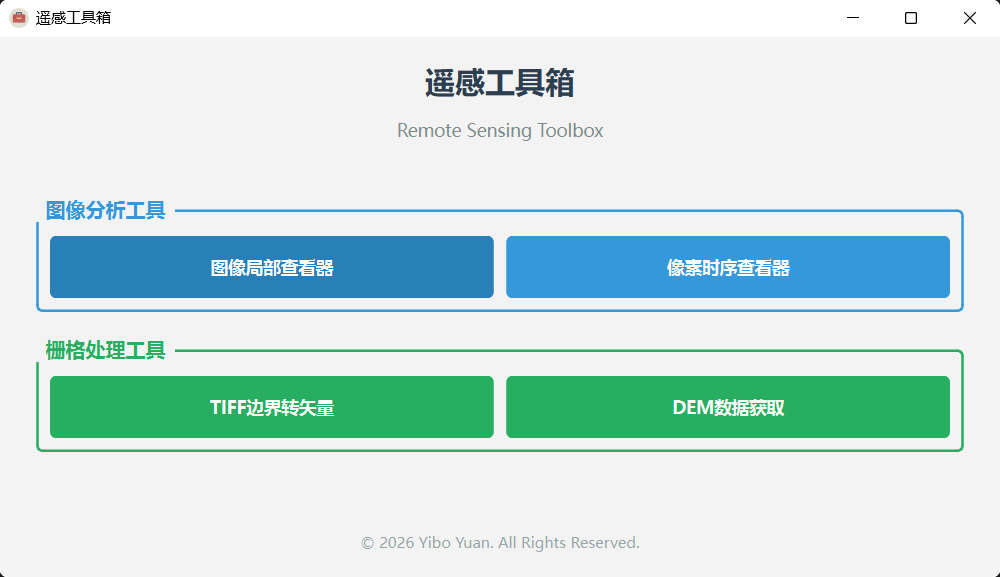
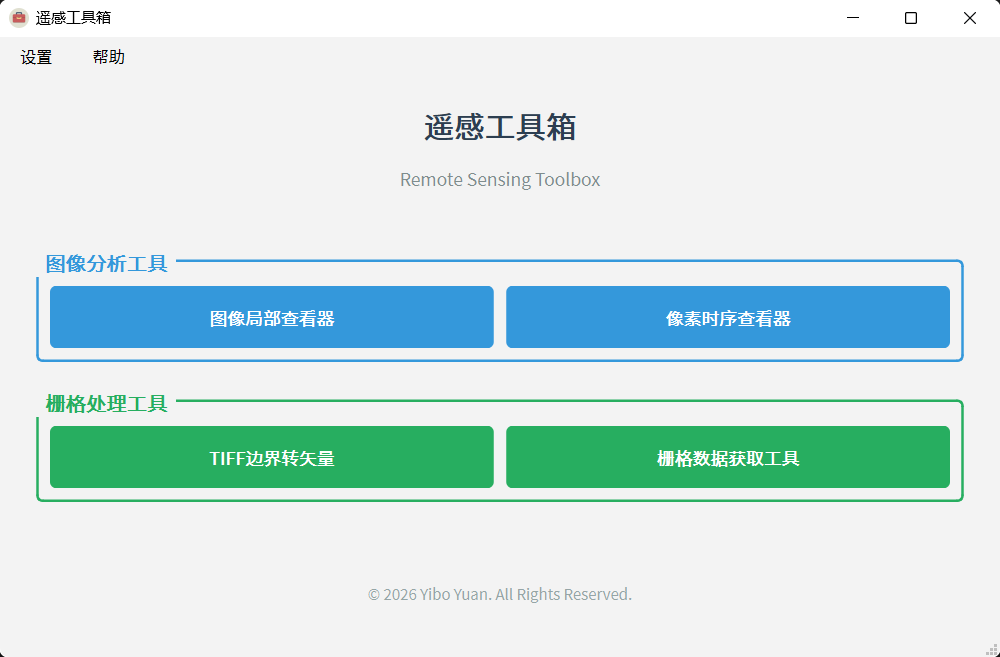
📃 docs: 更新README及示例图片

diff --git a/README.md b/README.md
@@ -73,16 +73,29 @@
   <img src="imgs/local.png" alt="图像局部查看器">
 </p>
 
-### 4. 栅格数据获取工具（已完成）
+### 4. 栅格数据获取工具
 
 可根据研究区范围从本地或在线数据源获取栅格数据
+
+**特点：**
+
+1. 在范围导入时支持
 
 **使用方法：**
 
 1. 点击主界面"栅格数据获取工具"按钮
+2. 选择区域选择方式：
+
+- **地图绘制**： 在地图上手动绘制区域
+- **手动输入**： 手动输入经纬度坐标
+- **行政区划**： 选择中国的省、市、县
+- **矢量文件**： 支持导入多种格式的矢量文件
+- **TIF文件**： 根据TIF文件的角点确定边界，导出时支持将栅格数据裁剪重采样至与TIF文件同样的地理范围和分辨率
+- **GAMMA par文件**： 根据GAMMA的SLC或者MLI的par文件确定矢量范围，并自动往外扩大0.1度范围，方便为地理编码准备DEM数据
+
 2. 选择数据获取方式：
-   - **在线获取**：选择在线数据源，配置 OpenTopography API Key，绘制或输入研究区范围，选择数据集后下载
-   - **本地获取**：选择本地栅格数据源，绘制或输入研究区范围，自动查找、拼接、裁剪瓦片
+   - **本地获取**：支持自定义配置本地栅格数据源，自动查找、拼接、裁剪本地栅格数据
+   - **在线获取**：选择在线数据源，支持OpenTopography，未来计划支持更多的在线数据
 3. 设置输出路径和文件名
 4. 点击"开始处理"获取栅格数据
 
@@ -220,8 +233,6 @@ uv sync
 python main.py
 ```
 
-
-
 ## 项目打包
 
 本项目支持 Windows 和 Linux 平台的打包，分别生成安装程序和 AppImage。
@@ -258,6 +269,26 @@ sudo apt install -y \
 # 确保已安装 Python 虚拟环境和所有项目依赖
 ```
 
+## 自动发布
+
+项目已配置基于 GitHub Actions 的自动发布流程：
+
+1. Windows 在 GitHub Actions 云端直接调用 `build_win.ps1` 构建安装包。
+2. Linux 在 GitHub Actions 云端通过 `docker/linux-release.Dockerfile` 构建固定环境，再调用 `build_linux.sh` 生成 AppImage。
+3. 推送形如 `v1.4.1` 的 Git tag 后，会自动创建 GitHub Release 并上传 Windows/Linux 两个平台产物。
+
+本地一键发版命令：
+
+```powershell
+.\scripts\publish_release.ps1
+```
+
+执行前请确保：
+
+1. `src/version.py` 和 `version.json` 中的版本号一致。
+2. 当前 Git 工作区是干净状态。
+3. `version.json` 里的 `name` 和 `changelog` 已经写好本次发布说明。
+
 ### Windows 打包
 
 使用 `build_win.ps1` 脚本进行打包，**默认会创建 NSIS 安装程序**：
@@ -277,6 +308,7 @@ sudo apt install -y \
 ```
 
 **输出文件：**
+
 - `dist/Toolbox-{版本号}-x86_64-Setup.exe` - **NSIS 安装程序**（推荐分发）
 
 ### Linux 打包
@@ -295,6 +327,7 @@ chmod +x build_linux.sh
 ```
 
 **输出文件：**
+
 - `dist/Toolbox-{版本号}-x86_64.AppImage` - AppImage 可执行文件
 
 **运行 AppImage：**
@@ -313,7 +346,6 @@ chmod +x dist/Toolbox-*.AppImage
 2. **Qt 库兼容性**：打包脚本已处理 GTK 和 Qt 插件冲突问题
 3. **测试**：打包后请在干净的系统环境中测试，确保所有依赖都已正确打包
 4. **Windows NSIS**：如果未安装 NSIS，脚本会跳过安装程序创建，但仍会生成 ZIP 压缩包
-
 
 ## 许可证
 
